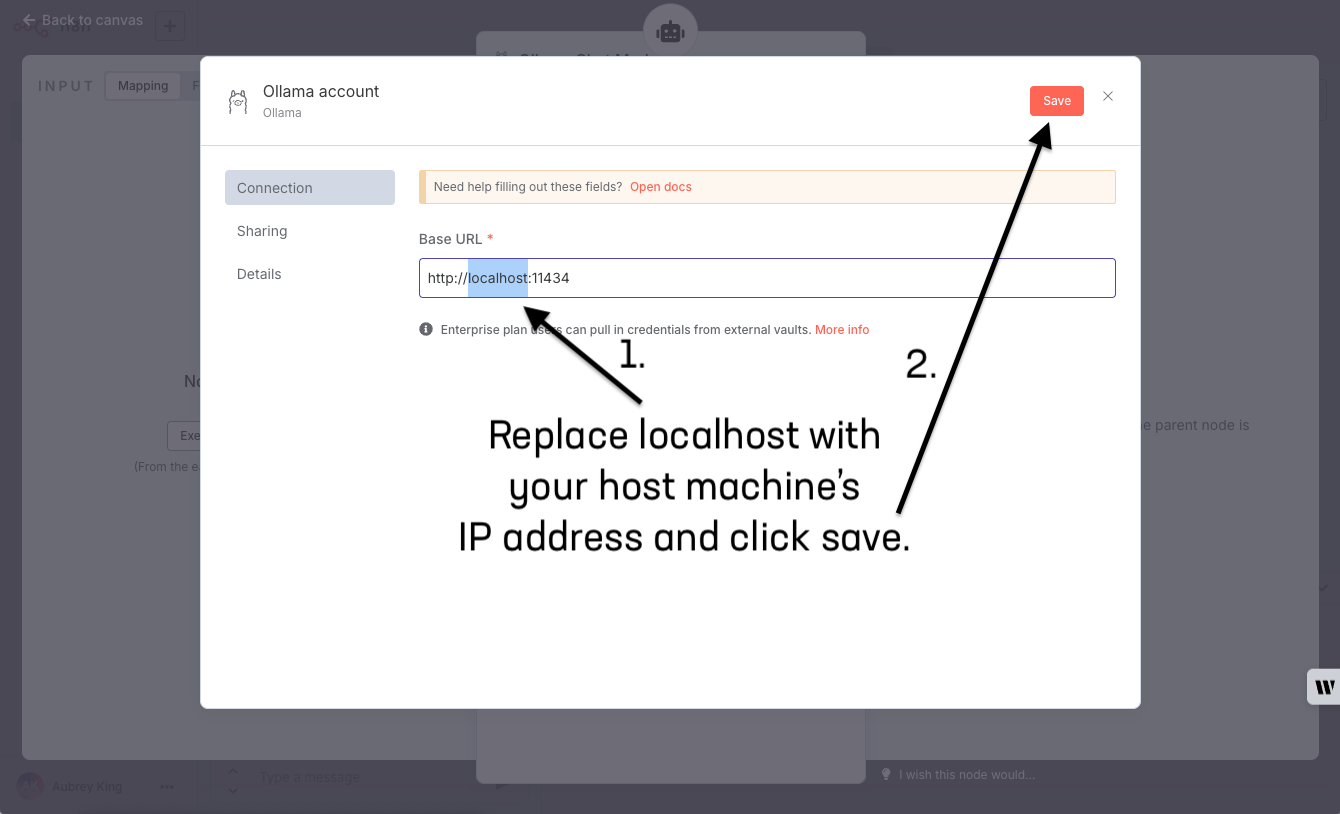
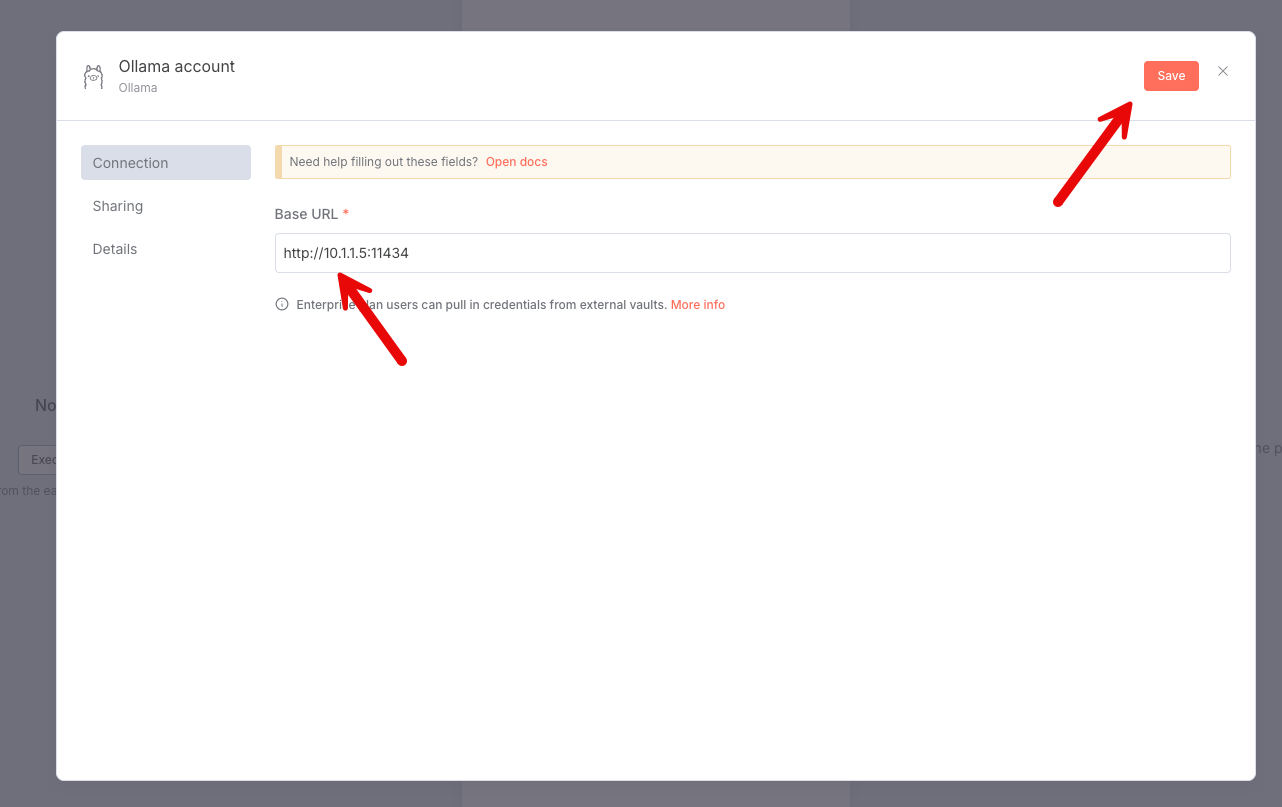
update to module 3

diff --git a/docs/class1/module3/lab1.rst b/docs/class1/module3/lab1.rst
@@ -1,8 +1,11 @@
 Lab 3.1 - Installing n8n
 ========================
 
-n8n is a free and open fair-code licensed node based workflow automation tool that will allow you to easily create AI agents for use with LLMs out of the box. It is very easy to get started with and does not require a GPU.
-In this module, we will install n8n in a docker container on our Jumphost and run it, then verify we can acces it via web UI.
+n8n is a free and open fair-code licensed node based workflow automation tool that will allow you to easily create AI agents for use with LLMs out of the box.
+It is very easy to get started with and does not require a GPU. In this module, we will install n8n in a docker container on our **Jumphost** and run it, then
+verify we can access it via web UI. You will want to open the **WEB SHELL** from the Jumphost.
+
+.. image:: images/00_jumphost_webshell_interface.png
 
 Installing n8n
 --------------
@@ -12,12 +15,44 @@ Installing n8n
 
 	docker volume create n8n_data
 
-This should give you a nice persistent volume to keep your n8n workflows intact, even if you need to restart your container for some reason.
+This should give you a persistent volume to keep your n8n workflows intact, even if you need to restart your container for some reason.
 
-2. Next, we will issue a single docker command to download the latest n8n container, set the host networking ports, connect to your n8n_data volume and run it!
+2. Next, we will issue a single docker command to download the latest n8n container, set the host networking ports, connect to your n8n_data volume and run it.
 
 .. code-block:: bash
 
 	docker run -it --rm --name n8n -p 5678:5678 -v n8n_data:/home/node/.n8n docker.n8n.io/n8nio/n8n
 
-At this point, n8n should be running and ready for your first access! Go ahead and click the "n8n Interface" button in your deployment and it should open a new browser window that proxies to port 5678 on the jumphost. This will allow you to create your local user, request a community license and configure your first agent... in the next lab.
+You should see output similar to the following:
+
+.. code-block:: bash
+
+    root@ip-10-1-1-4:/# docker run -it --rm --name n8n -p 5678:5678 -v n8n_data:/home/node/.n8n docker.n8n.io/n8nio/n8n
+	Unable to find image 'docker.n8n.io/n8nio/n8n:latest' locally
+	latest: Pulling from n8nio/n8n
+	fe07684b16b8: Pull complete 
+	49b72e7e39fe: Pull complete 
+	c1ab3b052759: Pull complete 
+	845179b1d451: Pull complete 
+	ad03744990d9: Pull complete 
+	4f4fb700ef54: Pull complete
+	``<REDACTED FOR LENGTH>``
+	Starting migration AddProjectDescriptionColumn1747824239000
+	Finished migration AddProjectDescriptionColumn1747824239000
+	Starting migration AddLastActiveAtColumnToUser1750252139166
+	Finished migration AddLastActiveAtColumnToUser1750252139166
+
+	There is a deprecation related to your environment variables. Please take the recommended actions to update your configuration:
+	- N8N_RUNNERS_ENABLED -> Running n8n without task runners is deprecated. Task runners will be turned on by default in a future version. Please set `N8N_RUNNERS_ENABLED=true` to enable task runners now and avoid potential issues in the future. Learn more: https://docs.n8n.io/hosting/configuration/task-runners/
+
+	[license SDK] Skipping renewal on init because renewal is not due yet or cert is not initialized
+	Version: 1.104.1
+
+	Editor is now accessible via:
+	http://localhost:5678
+
+	Press "o" to open in Browser.
+
+At this point, n8n should be running and ready for your first access!
+
+Proceed to the next lab to start setting up your first AI agent.

diff --git a/docs/class1/module3/lab2.rst b/docs/class1/module3/lab2.rst
@@ -1,12 +1,25 @@
 Lab 3.2 - n8n Hello World
 =========================
 
-This lab relies on the Ollama instance you built in module1, so please ensure that your Ollama container is running on 10.1.1.5 before continuing.
+This lab relies on the Ollama instance you built in Module 1, so please ensure that your Ollama container is running on 10.1.1.5 before continuing.
+
+.. code-block:: bash
+
+   docker ps
+
+You should see an output similar to this:
+
+.. code-block:: bash
+
+   root@ip-10-1-1-5:/# docker ps
+   CONTAINER ID   IMAGE           COMMAND               CREATED       STATUS       PORTS                                             NAMES
+   e9d5e7367dab   ollama/ollama   "/bin/ollama serve"   7 hours ago   Up 7 hours   0.0.0.0:11434->11434/tcp, [::]:11434->11434/tcp   ollama
 
 Goals
 ======
 
-By the end of this short lab, you will have created your first AI agent. It doesn't do a whole lot, except to proxy the conversation between n8n's native chat interface and your LLM (Ollama), but it will clearly display the power that an agent provides and it will set you up for easy AI-powered automation.
+By the end of this short lab, you will have created your first AI agent. It doesn't do a whole lot, except to proxy the conversation between n8n's native chat
+interface and your LLM served by Ollama, but it will clearly display the power that an agent provides and it will set you up for easy AI-powered automation.
 
 Steps
 =====
@@ -14,22 +27,26 @@ Steps
 #. Now, it's time to open your deployment's n8n Interface Access Method and create an owner account for the instance:
 
    .. image:: images/00_n8n_Interface.png
+
+#. Enter account details and click **Next**.
+
    .. image:: images/01_owner_account.png
 
-#. Click past the customization screen:
+#. This form is optional. You can click **Get Started** without filling in details to move on.
 
    .. image:: images/02_customize_screen.png
 
-#. Request your free community license activation key:
+#. You can request your free community license activation key by entering an email address.
 
    .. image:: images/03_send_license.png
 
-#. Click usage and plan to enter your license key that should be in your email:
+#. Click **usage and plan** to enter your license key that should be in your email.
 
    .. image:: images/04_usage_plan.png
 
 #. Click the Enter activation key button and paste your key from your email:
 
+   .. image:: images/03_license_email.png
    .. image:: images/05_plan_screen.png
    .. image:: images/06_key_pasted.png
 
@@ -41,21 +58,29 @@ Steps
 
    .. image:: images/08_add_trigger.png
 
-#. Create your agent! Click the + icon that is attached to your trigger and select AI > AI Agent from the side menu. When your agent definition screen comes up, take a look around, but change nothing and head back to your canvas:
+#. We don't need to configure anything on the next screen so click on **Back to canvas** to return to the canvas:
+
+   .. image:: images/08_back_to_canvas.png
+
+#. Create your agent! Click the + icon that is attached to your trigger and select AI > AI Agent from the side menu. When your agent definition screen comes up,
+take a look around, but change nothing and head back to your canvas:
 
    .. image:: images/09_click_ai.png
    .. image:: images/10_select_agent.png
    .. image:: images/11_agent_define.png
 
-#. Enable your agent with Ollama. Click the add chat model button, then select Ollama Chat Model from the side menu. When the Ollama definition screen comes up, click in the box and create new credentials. All you need to do for Ollama credentials is to set the actual IP of your host machine. Do not use ``127.0.0.1``, either. Once complete, close out of the definition screen:
+#. Enable your agent with Ollama. Click the add chat model button, then select Ollama Chat Model from the side menu. When the Ollama definition screen comes up,
+click in the box and create new credentials. All you need to do for Ollama credentials is to set the actual IP of your host machine by replacing ``localhost`` with
+``10.1.1.5`` Once complete, close out of the definition screen:
 
    .. image:: images/12_connect_model.png
    .. image:: images/13_create_cred.png
    .. image:: images/14_add_ip.png
    .. image:: images/15_close_out.png
 
-#. TEST IT OUT!! Type "Hello World" in the chat box and watch in amazement as you proxy your first chat conversation through an agent:
+#. TEST IT OUT!! Click **Open chat**. Type "Hello World" in the chat box and watch in amazement as you proxy your first chat conversation through an agent:
 
+   .. image:: images/16_open_chat.png
    .. image:: images/16_type_hello.png
    .. image:: images/17_mic_drop.png
 